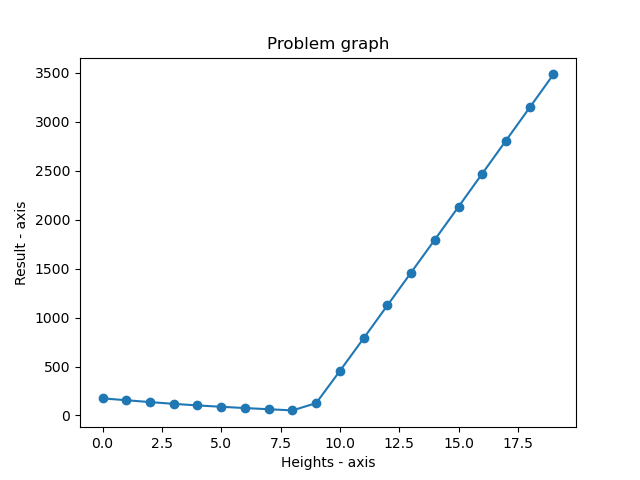
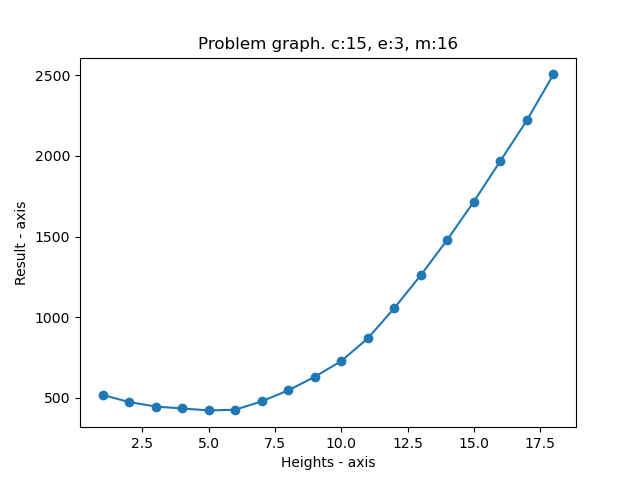
Fix plot images and add f(h) = r unimodality property demonstration

diff --git a/Problema1/main.py b/Problema1/main.py
@@ -8,30 +8,30 @@ from Pruebas.tester import test_solution
 
 
 if __name__ == "__main__":
-    n = input()
-    n = int(n)
+    # n = input()
+    # n = int(n)
 
-    if n <= 0:
-        raise Exception("Invalid number of columns")
+    # if n <= 0:
+    #     raise Exception("Invalid number of columns")
 
-    hi = input().split()
-    if len(hi) != n:
-        raise Exception("Invalid number of heights")
+    # hi = input().split()
+    # if len(hi) != n:
+    #     raise Exception("Invalid number of heights")
     
-    hi = [int(h) for h in hi]
+    # hi = [int(h) for h in hi]
 
-    for h in hi:
-        if h < 0:
-            raise Exception("Invalid height values")
+    # for h in hi:
+    #     if h < 0:
+    #         raise Exception("Invalid height values")
         
-    c = int(input())
-    e = int(input())
-    m = int(input())
+    # c = int(input())
+    # e = int(input())
+    # m = int(input())
 
-    print(gbt_or_g2t(n, hi, c, e, m))
+    # print(gbt_or_g2t(n, hi, c, e, m))
 
     # check_results()
 
-    # plot_problem(20, [randrange(0, 20) for i in range(20)], randrange(0, 20),  randrange(0, 20),  randrange(0, 20))
+    plot_problem(20, [randrange(0, 20) for i in range(20)], randrange(0, 20),  randrange(0, 20),  randrange(0, 20))
 
     # print(test_solution(greedy_bs_ts))

diff --git a/Problema1/Pruebas/plotter.py b/Problema1/Pruebas/plotter.py
@@ -26,7 +26,7 @@ def plot_problem(n, hi, c, e, m):
     # naming the y axis
     plt.ylabel('Result - axis')
 
-    plt.title('Problem graph')
+    plt.title('Problem graph. c:{}, e:{}, m:{}'.format(c, e, m))
 
     # function to show the plot
     plt.show()

diff --git a/Problema1/Informe/Informe_Jenga.md b/Problema1/Informe/Informe_Jenga.md
@@ -227,6 +227,7 @@ Una idea interesante para ganar intuición sobre el comportamiento de las altura
 ![img1](img/plot2.png)
 ![img1](img/plot3.png)
 ![img1](img/plot4.png)
+![img1](img/plot5.png)
 
 A partir de estos experimentos, resulta interesante analizar que estas funciones cumplen que poseen un solo mínimo y en caso de tener más de uno, todos son provenientes de valores consecutivos en el eje de las alturas. Nótese que esta definición es idéntica a la de función unimodal, donde el único extremo en este caso es un mínimo. Por lo tanto debemos demostrar que:
 
@@ -238,9 +239,14 @@ De forma general, una función unimodal de dos dimensiones puede verse como una 
 
 Para el caso específico de este problema, es necesario demostrar que $f(h) = r$ es una función unimodal de mínimo, es decir, existe una altura para la cual se alcanza el valor óptimo de solución del problema y todas las alturas menores o mayores cumplen que tienen evaluaciones mayores o iguales al valor de la función en dicho punto y a la izquierda de esta, $f$ es decreciente y a su derecha $creciente$.
 
-Por definición del problema, siempre va a existir al menos un punto donde la función alcance su valor óptimo mínimo, esto ya que trivialmente pudiéramos iterar por los posibles valores de las alturas dadas y quedarnos con aquel que de como resultado el menor costo de las operaciones para igualar todas las columnas de $hi$ a esta. Ahora, suponiendo la existencia de un mínimo, es evidente que toda altura válida menor o mayor que esta producirá valores mayores iguales al valor óptimo hallado, ya que en caso contrario, la altura denotada como óptima no lo es, ya que existe otra que tiene una evaluación menor. Luego, lo que resulta interesante para demostrar es que la función a la izquierda de $h$ es monótona decreciente y la de la derecha, monótona creciente. Para esto vamos a realizar la demostración para el trozo de la función a la izquierda de $h$, comprobando que para todo par de valores consecutivos $h'$ y $h'-1$, se cumple $f(h'-1) \geq f(h')$, sabiendo que ambas evaluaciones son mayores o iguales a $f(h)$.
+Por definición del problema, siempre va a existir al menos un punto donde la función alcance su valor óptimo mínimo, esto ya que trivialmente pudiéramos iterar por los posibles valores de las alturas dadas y quedarnos con aquel que de como resultado el menor costo de las operaciones para igualar todas las columnas de $hi$ a esta. Ahora, suponiendo la existencia de un mínimo, es evidente que toda altura válida menor o mayor que esta producirá valores mayores iguales al valor óptimo hallado, ya que en caso contrario, la altura denotada como óptima no lo sería, ya que existiría otra con una evaluación menor. Luego, lo que resulta interesante para demostrar es que la función a la izquierda de $h$ es monótona decreciente y la de la derecha, monótona creciente. Para esto vamos a realizar la demostración para el trozo de la función a la izquierda de $h$, comprobando que para todo par de valores consecutivos $h'$ y $h'-1$, se cumple $f(h'-1) \geq f(h')$, sabiendo que ambas evaluaciones son mayores o iguales a $f(h)$.
 
+La clave está en analizar qué sucede en los casos posibles de acuerdo a los valores de $c$, $e$ y $m$.
+- Si $m > c + e$, entonces solo tiene sentido hacer acciones de quitar y colocar palitos, por lo tanto si $c=e$, el paso de $f(h')$ a $f(h'-1)$ es equivalente ya que para las operaciones necesarias da igual las cantidades que habrían que subir o bajar. Por otro lado, si $c < e$ entonces tiene sentido que al aumentar la cantidad de palitos para quitar con respecto a los que hay que poner, entonces $f(h'-1) \geq f(h')$. Finalmente, en el caso en que $c > e$, entonces la cantidad de palitos para poner aumenta en el paso de $h'$ a $h'-1$ y disminuye la cantidad de los que hay que quitar, pero en dicho paso todavía no se alcanzan las distribuciones para la cantidad de palitos para subir y bajar que corresponden a la solución óptima. Para este último caso, podemos pensar en que las cantidades de palitos a subir y bajar óptimas son $count_{ups_{op}}$ y $count_{downs_{op}}$ y que lo que se logra con el paso de $h'-1$ a $h'$ sería $count_{ups}'$ y $count_{downs}'$. Luego vemos que al aumentar la altura, $count_{ups}'$ aumenta y se acerca más a $count_{ups_{op}}$, y $count_{downs}'$ disminuye y se acerca más a $count_{downs_{op}}$, por lo tanto con el paso dado, se acerca más el costo $c*count_{ups}'+ count_{downs}'*e$ a $c*count_{ups_{op}} + count_{downs_{op}}*e$ de forma lineal, luego podemos afirmar que necesariamente $f(h'-1) \geq f(h')$.
 
+- Si $m \leq c + e$ nótese que podemos reducirlo al caso anterior realizando mientras sea posible las acciones de movimiento, y en este caso la expresión de paso de $h'-1$ a $h'$ podría verse como la cantidad de cada acciones posibles de cada tipo para llegar a la cantidad de acciones posibles para la altura óptima que dan la solución ideal. Nótese que esta expresión para la altura óptima $h$ sería $m*moves_{op} + c*adds{op} + e*dels{op}$ donde $moves_{op}, adds{op}$ y $dels{op}$ son la cantidad de operaciones de movimiento, colocar y eliminar y que de manera análoga al caso anterior, dichos valores se acercan de forma lineal al valor óptimo a mendida que aumenta la altura en el paso de $h'-1$ a $h'$, por lo tanto debe cumplirse que $f(h'-1) \geq f(h')$.
+
+Finalmente, para completar la demostración se sugiere hacer el razonamiento equivalente para aquellos valores a la derecha de la altura óptima, con el objetivo de demostrar su monotonía creciente
 
 Ahora, una vez demostrado esto, debemos encontrar un algoritmo que nos permita hallar de manera eficiente y precisa el valor de la altura óptima. En la literatura dicho algoritmo se denomina *Búsqueda Ternaria*. Su principio de funcionamiento es similar a la *Búsqueda Binaria*, solo que, en vez de analizar dos secciones de un espacio de búsqueda, se analizan tres, y en base a un criterio análogo permite converger correctamente al valor buscado analizando solamente uno de las tres secciones dadas. Por lo tanto, debemos demostrar que:
 
